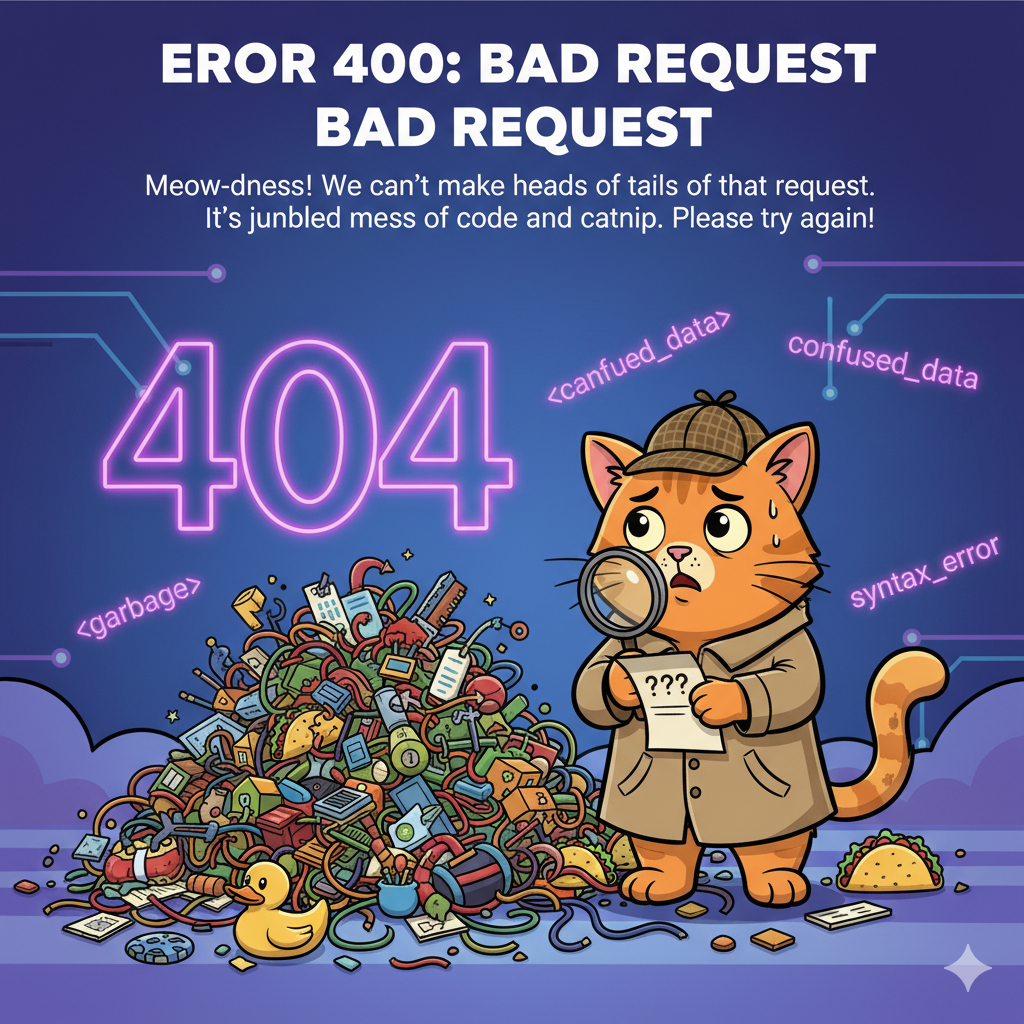
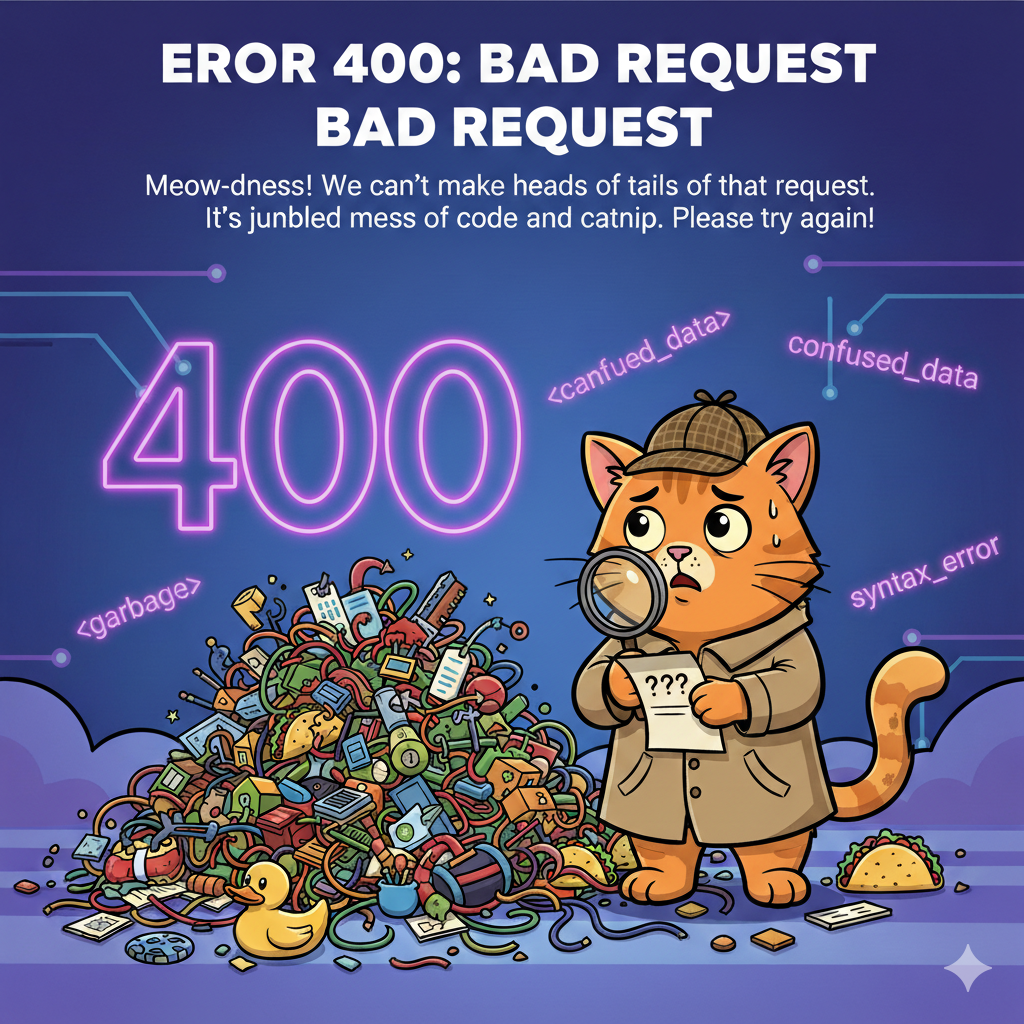
Admin Dashboard Redirction overhaul - now all admin actions lead back to the Dashboard.

diff --git a/PurrfectShot.Web/wwwroot/js/admin/admin-dashboard-tab-redirect.js b/PurrfectShot.Web/wwwroot/js/admin/admin-dashboard-tab-redirect.js
@@ -1,0 +1,12 @@
+document.addEventListener("DOMContentLoaded", function () {
+    const urlParams = new URLSearchParams(window.location.search);
+    const activeTab = urlParams.get('tab');
+
+    if (activeTab) {
+        const tabElement = document.querySelector(`#${activeTab}-tab`);
+        if (tabElement) {
+            const tab = new bootstrap.Tab(tabElement);
+            tab.show();
+        }
+    }
+});

diff --git a/PurrfectShot.Web/Areas/Admin/Controllers/UsersController.cs b/PurrfectShot.Web/Areas/Admin/Controllers/UsersController.cs
@@ -31,7 +31,7 @@ namespace PurrfectShot.Web.Areas.Admin.Controllers
                 if (result.Succeeded)
                 {
                     TempData["Success"] = $"Потребителят {email} беше създаден успешно!";
-                    return RedirectToAction("Index", "Dashboard");
+                    return RedirectToAction("Index", "Dashboard", new { area = "Admin", tab = "users" });
                 }
 
                 foreach (var error in result.Errors)
@@ -88,7 +88,7 @@ namespace PurrfectShot.Web.Areas.Admin.Controllers
                 if (result.Succeeded)
                 {
                     TempData["Success"] = "Потребителят беше обновен успешно!";
-                    return RedirectToAction("Index", "Dashboard");
+                    return RedirectToAction("Index", "Dashboard", new { area = "Admin", tab = "users" });
                 }
 
                 foreach (var error in result.Errors)
@@ -108,16 +108,16 @@ namespace PurrfectShot.Web.Areas.Admin.Controllers
         }
 
         [HttpGet]
-        public async Task<IActionResult> Delete(string userId)
+        public async Task<IActionResult> Delete(string id)
         {
-            var userToDelete = await userService.GetUserForDeleteAsync(userId);
+            var userToDelete = await userService.GetUserForDeleteAsync(id);
             if (userToDelete == null)
                 return RedirectToAction("Index", "Dashboard");
 
             if (userToDelete == null)
             {
                 TempData["Error"] = "Потребителят не е намерен.";
-                return RedirectToAction("Index", "Dashboard", new { area = "Admin" });
+                return RedirectToAction("Index", "Dashboard", new { area = "Admin", tab = "users" });
             }
 
             ViewData["Title"] = "Изтриване на потребител";
@@ -127,30 +127,26 @@ namespace PurrfectShot.Web.Areas.Admin.Controllers
 
         [HttpPost]
         [ActionName("Delete")]
-        public async Task<IActionResult> DeleteUser(string userId)
+        public async Task<IActionResult> DeleteUser(string id)
         {
-            if (userId == GetUserId())
+            if (id == GetUserId())
             {
                 TempData["Error"] = "Не може да изтриеш собствения си акаунт!";
-                return RedirectToAction("Index", "Dashboard");
+                return RedirectToAction("Index", "Dashboard", new { area = "Admin", tab = "users" });
             }
 
             try
             {
-                bool success = await userService.DeleteUserAsync(userId);
+                bool success = await userService.DeleteUserAsync(id);
 
                 if (success)
-                {
                     TempData["Success"] = "Потребителят беше премахнат успешно.";
-                }
                 else
-                {
                     TempData["Error"] = "Потребителят не можеше да бъде изтрит.";
-                }
             }
             catch (Exception ex)
             {
-                logger.LogError(ex, "Critical error deleting user {UserId}", userId);
+                logger.LogError(ex, "Critical error deleting user {UserId}", id);
 
                 TempData["Error"] = "Възникна системна грешка при изтриване.";
             }

diff --git a/PurrfectShot.Web/Areas/Admin/Controllers/DashboardController.cs b/PurrfectShot.Web/Areas/Admin/Controllers/DashboardController.cs
@@ -9,8 +9,10 @@ namespace PurrfectShot.Web.Areas.Admin.Controllers
     public class DashboardController(ICatService catService, IUserService userService, IPhotoService photoService, ILogger<DashboardController> logger) : AdminBaseController
     {
         [HttpGet]
-        public async Task<IActionResult> Index()
+        public async Task<IActionResult> Index(string tab = "cats")
         {
+            ViewBag.ActiveTab = tab;
+
             try
             {
                 var model = new AdminDashboardViewModel
@@ -35,7 +37,8 @@ namespace PurrfectShot.Web.Areas.Admin.Controllers
         [HttpPost]
         public async Task<IActionResult> Restore(int id)
         {
-            if (id <= 0) return BadRequest();
+            if (id <= 0)
+                return BadRequest();
 
             try
             {
@@ -48,18 +51,19 @@ namespace PurrfectShot.Web.Areas.Admin.Controllers
                 TempData["Error"] = "Възникна грешка при възстановяването на профила.";
             }
 
-            return RedirectToAction(nameof(Index));
+            return RedirectToAction(nameof(Index), new { tab = "cats" });
         }
 
         [HttpPost]
         public async Task<IActionResult> DeletePermanently(int id)
         {
-            if (id <= 0) return BadRequest();
+            if (id <= 0)
+                return BadRequest();
 
             await catService.DeleteCatPermanentlyAsync(id);
             TempData["Success"] = "Котката и всички нейни данни бяха изтрити ЗАВИНАГИ.";
 
-            return RedirectToAction(nameof(Index));
+            return RedirectToAction(nameof(Index), new { tab = "cats" });
         }
 
         [HttpPost]
@@ -88,7 +92,7 @@ namespace PurrfectShot.Web.Areas.Admin.Controllers
                 TempData["Error"] = "Възникна системна грешка.";
             }
 
-            return RedirectToAction(nameof(Index));
+            return RedirectToAction(nameof(Index), new { tab = "users" });
         }
     }
 }

diff --git a/PurrfectShot.Web/Controllers/PhotosController.cs b/PurrfectShot.Web/Controllers/PhotosController.cs
@@ -284,6 +284,12 @@ namespace PurrfectShot.Web.Controllers
                     return RedirectToAction(nameof(Index), "Home");
 
                 TempData["Success"] = "Снимката е изтрита успешно.";
+
+                if (User.IsInRole("Administrator"))
+                {
+                    return RedirectToAction("Index", "Dashboard", new { area = "Admin", tab = "photos" });
+                }
+
                 return RedirectToAction(nameof(Details), "Cats", new { id = catId });
             }
             catch (Exception ex)
@@ -291,7 +297,7 @@ namespace PurrfectShot.Web.Controllers
                 logger.LogError(ex, "Error deleting photo {PhotoId}", id);
 
                 TempData["Error"] = "Възникна системна грешка при изтриване.";
-                return RedirectToAction(nameof(Index), "Home");
+                return RedirectToAction(nameof(Index), "Home", new { area = "" });
             }
         }
 
